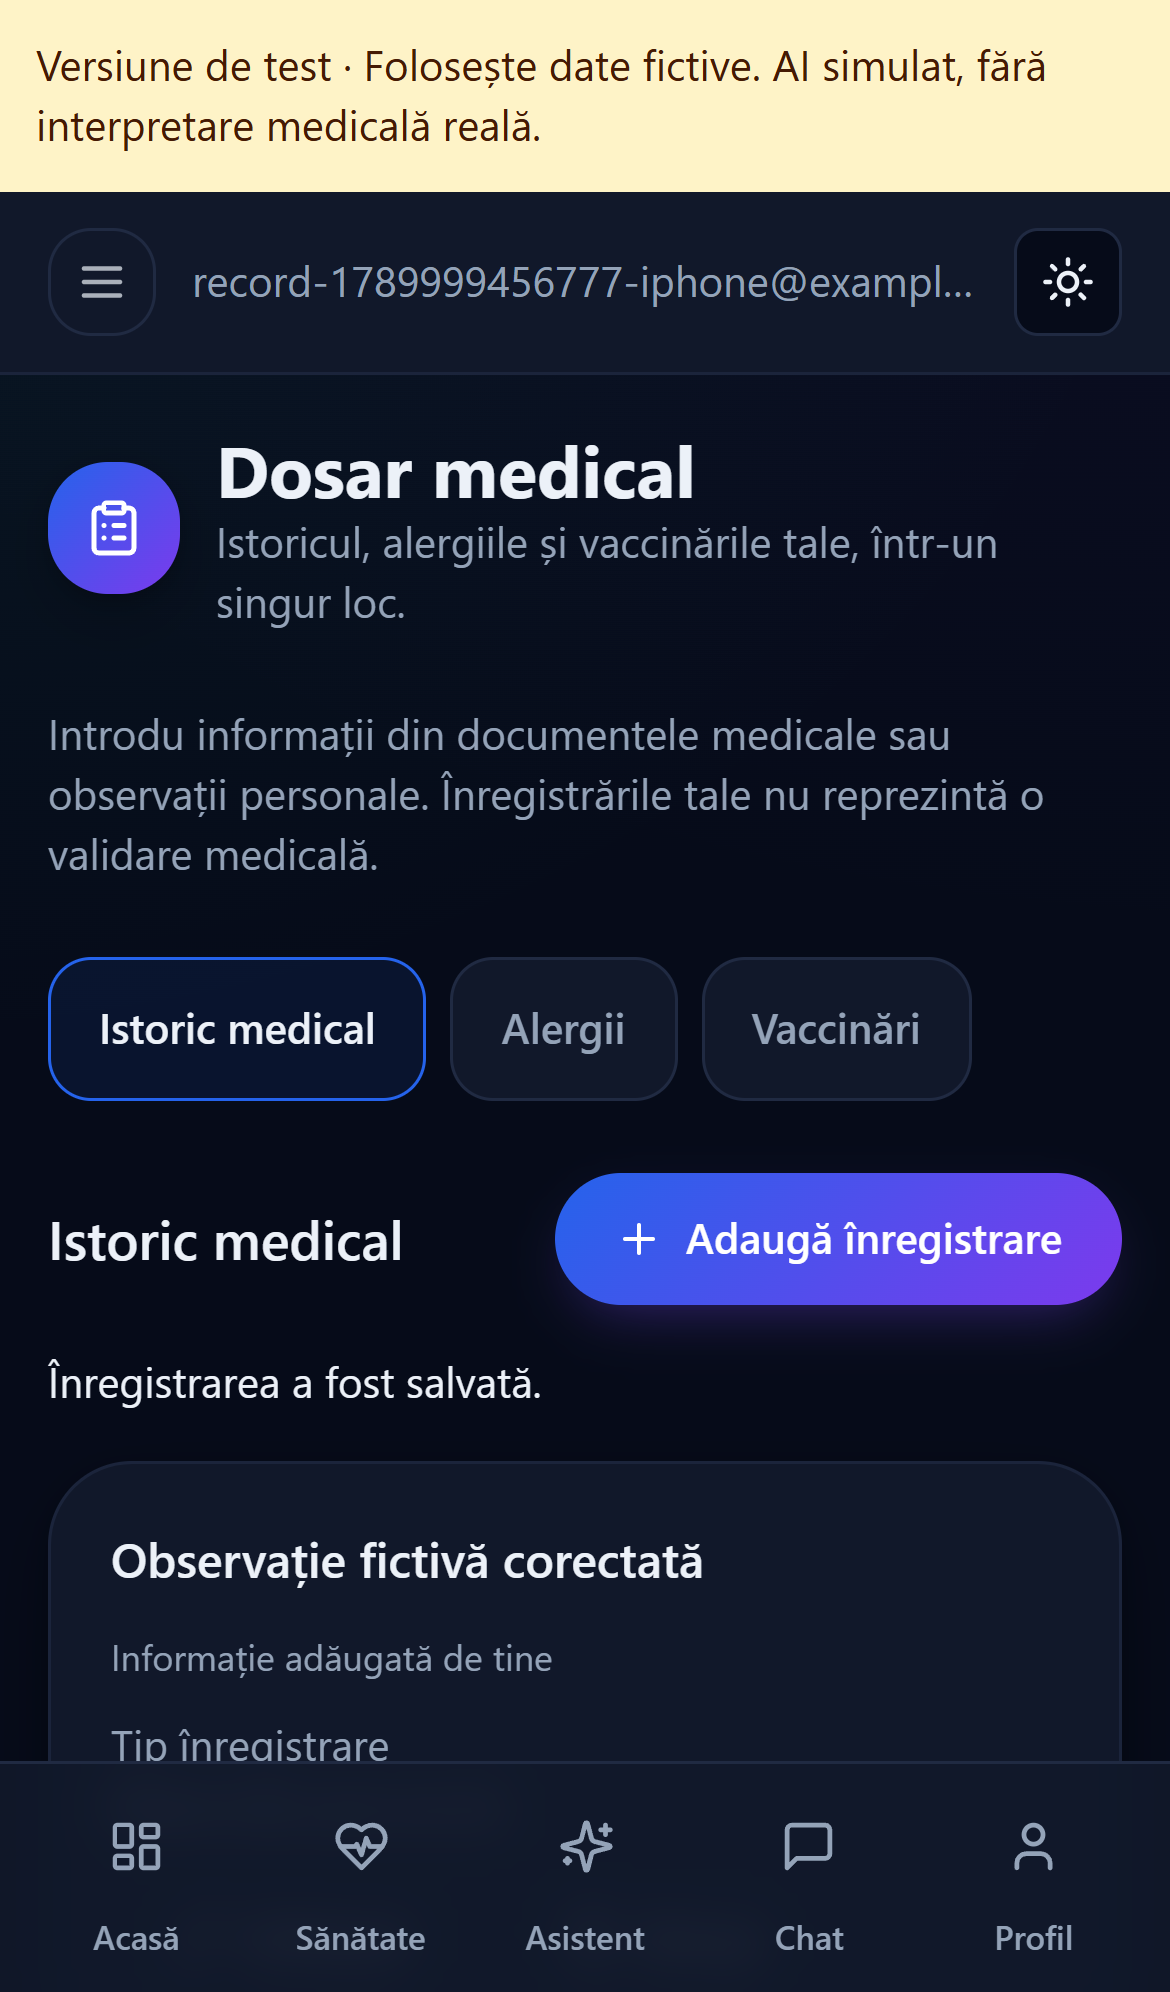
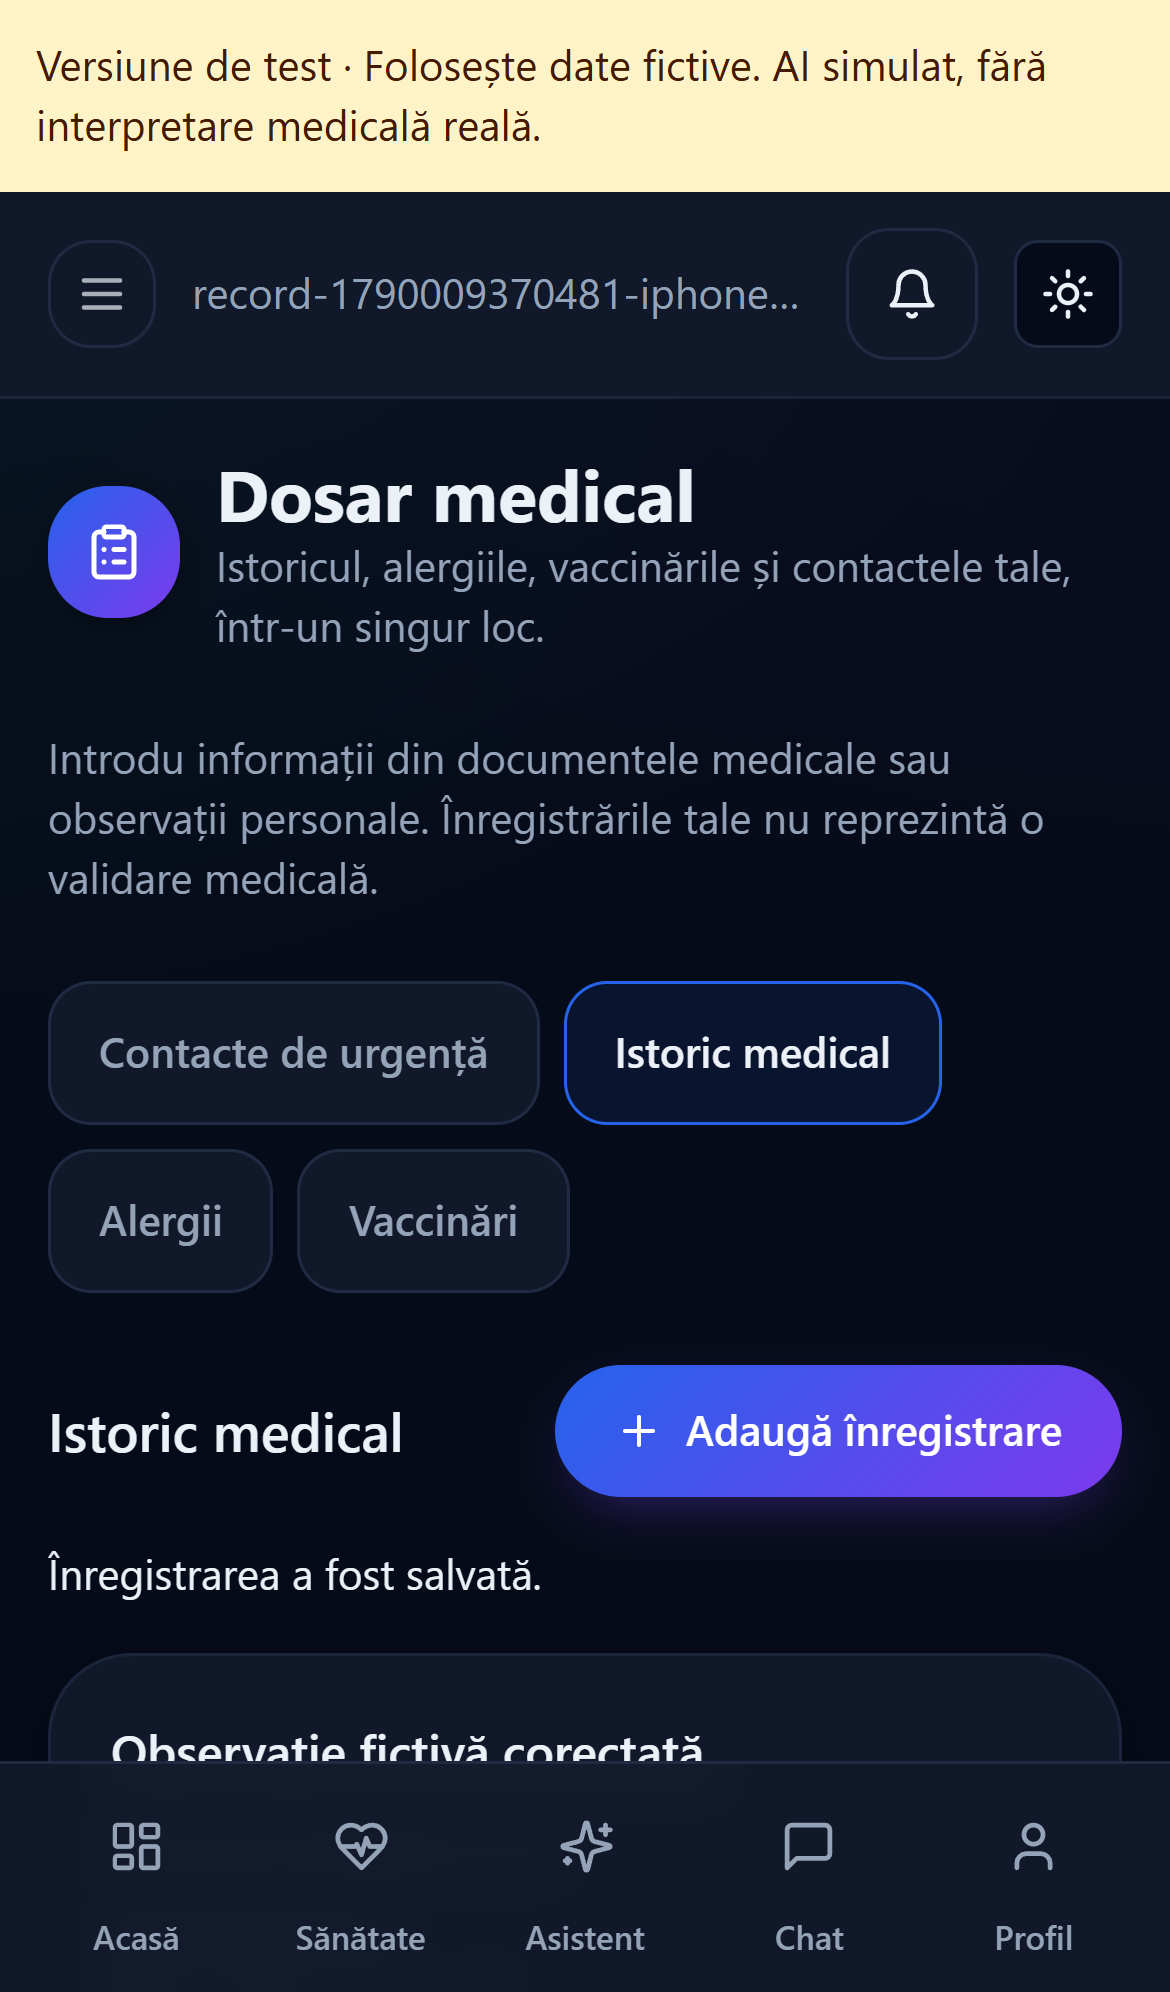
Add owner-scoped emergency contact management to medical record

diff --git a/frontend/src/app/(app)/record/page.tsx b/frontend/src/app/(app)/record/page.tsx
@@ -7,6 +7,11 @@ import { PageHeader } from "@/components/ui";
 import { RecordCollection, type CollectionSpec } from "@/components/record-collection";
 
 const sections: Record<string, CollectionSpec> = {
+  contacts: {title:"Contacte de urgență",endpoint:"/patients/me/emergency-contacts",titleKey:"name",fields:[
+    {key:"name",label:"Numele persoanei",required:true,maxLength:200},
+    {key:"relationship_label",label:"Relația cu persoana",maxLength:100},
+    {key:"phone",label:"Telefon de contact",maxLength:40},
+  ]},
   history: {title:"Istoric medical", endpoint:"/history", titleKey:"title", update:"patch", fields:[
     {key:"title",label:"Titlu",required:true,maxLength:300},
     {key:"event_type",label:"Tip înregistrare",type:"select",initial:"observation",options:[
@@ -35,7 +40,7 @@ export default function RecordPage() {
   const [active,setActive] = useState("history");
   const [editing,setEditing] = useState(false);
   return <div className="max-w-3xl space-y-6">
-    <PageHeader title="Dosar medical" subtitle="Istoricul, alergiile și vaccinările tale, într-un singur loc." icon={ClipboardList} />
+    <PageHeader title="Dosar medical" subtitle="Istoricul, alergiile, vaccinările și contactele tale, într-un singur loc." icon={ClipboardList} />
     <p className="text-sm text-muted">Introdu informații din documentele medicale sau observații personale. Înregistrările tale nu reprezintă o validare medicală.</p>
     <div className="flex flex-wrap gap-2" aria-label="Secțiuni dosar">
       {Object.entries(sections).map(([key,spec]) => <button key={key} type="button" aria-pressed={active === key}
@@ -43,6 +48,7 @@ export default function RecordPage() {
         className={`min-h-12 rounded-xl border px-4 text-sm font-semibold transition disabled:opacity-60 ${active === key ? "border-brand-blue bg-brand-blue/10 text-fg" : "border-border bg-surface text-muted hover:bg-surface-2"}`}>{spec.title}</button>)}
     </div>
     {editing && <p className="text-sm text-muted">Salvează sau anulează editarea înainte de a schimba secțiunea.</p>}
+    {active === "contacts" && <p className="text-sm text-muted">Păstrează aici persoanele pe care dorești să le contactezi. Aplicația nu le apelează și nu le trimite mesaje automat.</p>}
     <RecordCollection key={active} spec={sections[active]} onEditing={setEditing} />
     <Link href="/profile" className="inline-flex min-h-12 items-center text-brand-blue underline">Exportă raportul medical din Profil</Link>
   </div>;

diff --git a/frontend/tests/record-flow.spec.ts b/frontend/tests/record-flow.spec.ts
@@ -14,13 +14,22 @@ test("medical record create, edit, cancel deletion and delete",async({page},info
     {section:"Istoric medical",field:"Titlu",value:"Observație fictivă"},
     {section:"Alergii",field:"Substanță sau alergen",value:"Alergen fictiv"},
     {section:"Vaccinări",field:"Numele vaccinului",value:"Vaccin fictiv"},
+    {section:"Contacte de urgență",field:"Numele persoanei",value:"Persoană fictivă"},
   ]) {
     await page.getByRole("button",{name:entry.section,exact:true}).click();
     await page.getByRole("button",{name:"Adaugă înregistrare"}).click();
     await page.getByLabel(entry.field,{exact:false}).fill(entry.value);
+    if(entry.section==="Contacte de urgență") {
+      await page.getByLabel("Telefon de contact").fill("0000000000");
+      await page.getByLabel("Relația cu persoana").fill("Prieten");
+    }
     await expect(page.getByRole("button",{name:"Istoric medical",exact:true})).toBeDisabled();
     await page.getByRole("button",{name:"Salvează înregistrarea"}).click();
     await expect(page.getByRole("heading",{name:entry.value,exact:true})).toBeVisible();
+    if(entry.section==="Contacte de urgență") {
+      await expect(page.getByText("0000000000",{exact:true})).toBeVisible();
+      await expect(page.getByText("Prieten",{exact:true})).toBeVisible();
+    }
     await page.getByRole("button",{name:"Editează",exact:true}).click();
     await page.getByLabel(entry.field,{exact:false}).fill(entry.value+" corectată");
     await page.getByRole("button",{name:"Salvează înregistrarea"}).click();

diff --git a/backend/app/api/routes/patients.py b/backend/app/api/routes/patients.py
@@ -11,10 +11,12 @@ from app.api.deps import get_current_patient
 from app.core.database import get_db
 from app.core.security import encrypt_field
 from app.models.clinical import Doctor
-from app.models.patient import Allergy, Patient
+from app.models.patient import Allergy, EmergencyContact, Patient
 from app.schemas.patient import (
     AllergyIn,
     AllergyOut,
+    EmergencyContactIn,
+    EmergencyContactOut,
     PatientOut,
     PatientUpdate,
 )
@@ -116,3 +118,54 @@ def update_allergy(allergy_id: int, payload: AllergyIn,
     audit.record(db, user_id=patient.user_id, action="allergy_update",
                  resource_type="allergy", resource_id=allergy.id)
     return allergy
+
+
+@router.get("/me/emergency-contacts", response_model=list[EmergencyContactOut])
+def list_emergency_contacts(patient: Patient = Depends(get_current_patient),
+                            db: Session = Depends(get_db)):
+    return list(db.scalars(select(EmergencyContact).where(
+        EmergencyContact.patient_id == patient.id).order_by(EmergencyContact.id)))
+
+
+@router.post("/me/emergency-contacts", response_model=EmergencyContactOut, status_code=201)
+def create_emergency_contact(payload: EmergencyContactIn,
+                             patient: Patient = Depends(get_current_patient),
+                             db: Session = Depends(get_db)):
+    contact = EmergencyContact(patient_id=patient.id, **payload.model_dump())
+    db.add(contact)
+    db.flush()
+    audit.record(db, user_id=patient.user_id, action="emergency_contact.create",
+                 resource_type="emergency_contact", resource_id=contact.id)
+    db.refresh(contact)
+    return contact
+
+
+def _owned_contact(contact_id: int, patient: Patient, db: Session) -> EmergencyContact:
+    contact = db.scalar(select(EmergencyContact).where(
+        EmergencyContact.id == contact_id, EmergencyContact.patient_id == patient.id))
+    if contact is None:
+        raise HTTPException(404, "Contact inexistent")
+    return contact
+
+
+@router.put("/me/emergency-contacts/{contact_id}", response_model=EmergencyContactOut)
+def update_emergency_contact(contact_id: int, payload: EmergencyContactIn,
+                             patient: Patient = Depends(get_current_patient),
+                             db: Session = Depends(get_db)):
+    contact = _owned_contact(contact_id, patient, db)
+    for key, value in payload.model_dump().items():
+        setattr(contact, key, value)
+    audit.record(db, user_id=patient.user_id, action="emergency_contact.update",
+                 resource_type="emergency_contact", resource_id=contact.id)
+    db.refresh(contact)
+    return contact
+
+
+@router.delete("/me/emergency-contacts/{contact_id}", status_code=204)
+def delete_emergency_contact(contact_id: int, patient: Patient = Depends(get_current_patient),
+                             db: Session = Depends(get_db)):
+    contact = _owned_contact(contact_id, patient, db)
+    db.delete(contact)
+    audit.record(db, user_id=patient.user_id, action="emergency_contact.delete",
+                 resource_type="emergency_contact", resource_id=contact_id)
+    return Response(status_code=204)

diff --git a/backend/tests/test_emergency_contacts.py b/backend/tests/test_emergency_contacts.py
@@ -1,0 +1,37 @@
+from sqlalchemy import select
+
+from app.models.patient import EmergencyContact
+from app.models.user import AuditLog
+from tests.test_gdpr import API, _auth
+
+
+def test_contacts_crud_owner_isolation_export_and_erasure(client, db_session):
+    h = _auth(client, "contact-owner@example.com")
+    other = _auth(client, "contact-other@example.com")
+    url = f"{API}/patients/me/emergency-contacts"
+    for invalid in ({"name": " "}, {"name": "x" * 201}, {"name": "Test", "phone": "x" * 41}):
+        assert client.post(url, headers=h, json=invalid).status_code == 422
+    created = client.post(url, headers=h, json={"name": " Fictitious contact ", "phone": "0000"})
+    assert created.status_code == 201
+    contact = created.json()
+    assert contact["name"] == "Fictitious contact"
+    item = f"{url}/{contact['id']}"
+    assert client.get(url, headers=other).json() == []
+    assert client.put(item, headers=other, json={"name": "Foreign edit"}).status_code == 404
+    assert client.delete(item, headers=other).status_code == 404
+    changed = client.put(item, headers=h, json={"name": "Updated fictitious contact",
+                                               "relationship_label": "Friend", "phone": None})
+    assert changed.status_code == 200 and changed.json()["phone"] is None
+    data = client.get(f"{API}/gdpr/export", headers=h).json()
+    assert data["emergency_contacts"][0]["relationship_label"] == "Friend"
+    assert client.delete(item, headers=h).status_code == 204
+    assert client.get(url, headers=h).json() == []
+    entries = list(db_session.scalars(select(AuditLog).where(
+        AuditLog.resource_type == "emergency_contact")))
+    assert {entry.action for entry in entries} == {
+        "emergency_contact.create", "emergency_contact.update", "emergency_contact.delete"}
+    assert all(entry.detail is None for entry in entries)
+    assert client.post(url, headers=h, json={"name": "Erase me"}).status_code == 201
+    assert client.post(f"{API}/gdpr/delete-account", headers=h,
+                       json={"password": "Parola1234", "confirm": True}).status_code == 204
+    assert list(db_session.scalars(select(EmergencyContact))) == []

diff --git a/backend/app/schemas/patient.py b/backend/app/schemas/patient.py
@@ -46,3 +46,15 @@ class AllergyIn(BaseModel):
 class AllergyOut(AllergyIn):
     model_config = ConfigDict(from_attributes=True)
     id: int
+
+
+class EmergencyContactIn(BaseModel):
+    model_config = ConfigDict(str_strip_whitespace=True)
+    name: str = Field(min_length=1, max_length=200)
+    relationship_label: str | None = Field(default=None, max_length=100)
+    phone: str | None = Field(default=None, max_length=40)
+
+
+class EmergencyContactOut(EmergencyContactIn):
+    model_config = ConfigDict(from_attributes=True)
+    id: int

diff --git a/docs/LOCAL-TEST.md b/docs/LOCAL-TEST.md
@@ -199,3 +199,6 @@ Profilul afișează acum erorile de încărcare cu buton de reîncercare. La eș
 
 
 Actualizările profilului validează pe server lungimea numelor (120) și a telefonului (40), identificatorul pozitiv și existența medicului selectat. API-ul distinge omiterea CNP-ului de ștergerea explicită prin `null` sau șir gol. Modificarea și evenimentul de audit se confirmă în aceeași tranzacție; jurnalul păstrează numele câmpurilor trimise, fără valori personale. CNP-ul rămâne criptat și nu este returnat de profil. Testele folosesc un identificator fictiv, fără validarea unei identități reale.
+
+
+**Dosar medical → Contacte de urgență** permite adăugarea, editarea și ștergerea confirmată a numelui, relației și telefonului. API-ul `/patients/me/emergency-contacts` validează lungimile și numele obligatoriu; modificarea unui contact străin returnează 404. Operațiunile și auditul se confirmă împreună, fără datele persoanei în audit. Contactele sunt deja incluse în exportul JSON și sunt eliminate odată cu contul. Aplicația nu apelează și nu trimite mesaje automat acestor persoane.
